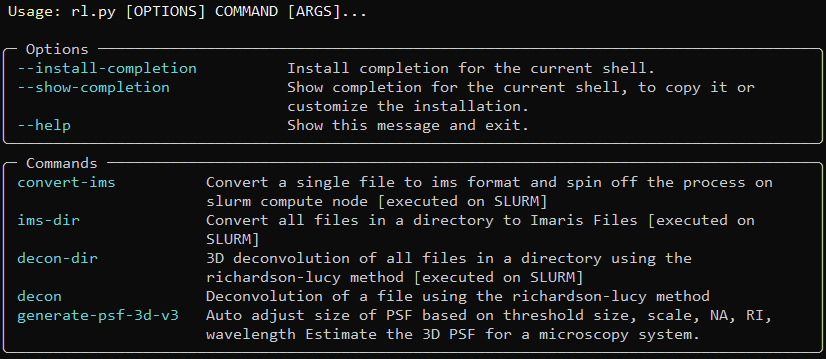
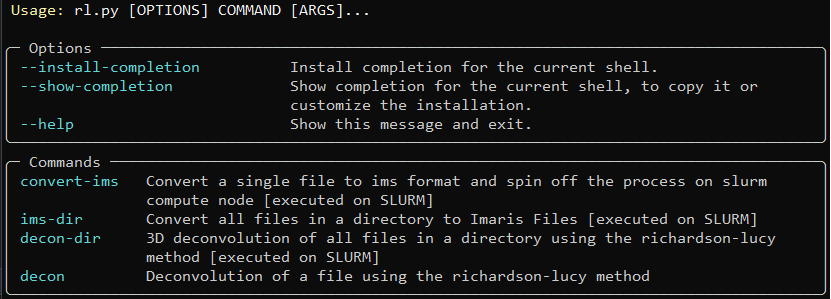
README

Changed region(s): [[0.0, 0.0, 1.0, 1.0], [0.0, 0.0, 0.454, 0.0602]]

diff --git a/mesospim_utils/rl.py b/mesospim_utils/rl.py
@@ -456,7 +456,6 @@ def generate_psf_3d_v2(size: tuple[int,int,int]=(3,3,3), scale: tuple[float,floa
         print('\n\n')
     return psf
 
-@app.command()
 def generate_psf_3d_v3(size: tuple[int,int,int]=(3,3,3), scale: tuple[float,float,float]=(1,1,1),
         na: float=0.2, ri: float=1.0, wavelength: int=488):
     """

diff --git a/README.md b/README.md
@@ -48,7 +48,7 @@ The PSF is automatically calculated using the metadata files generated for each 
 
 ```bash
 dir_loc <required>:		location of the directory with mesospim files
---out-dir: 				optional directory for output files <defaults to </dir_loc/decon>
+--out-dir:				optional directory for output files <defaults to </dir_loc/decon>
 --out-file-type:		extension of output files
 --file-type:			extension of input files <currently only supports .btf>
 --queue-ims:			After decon convert to ims file using SLURM nodes <default NO>
